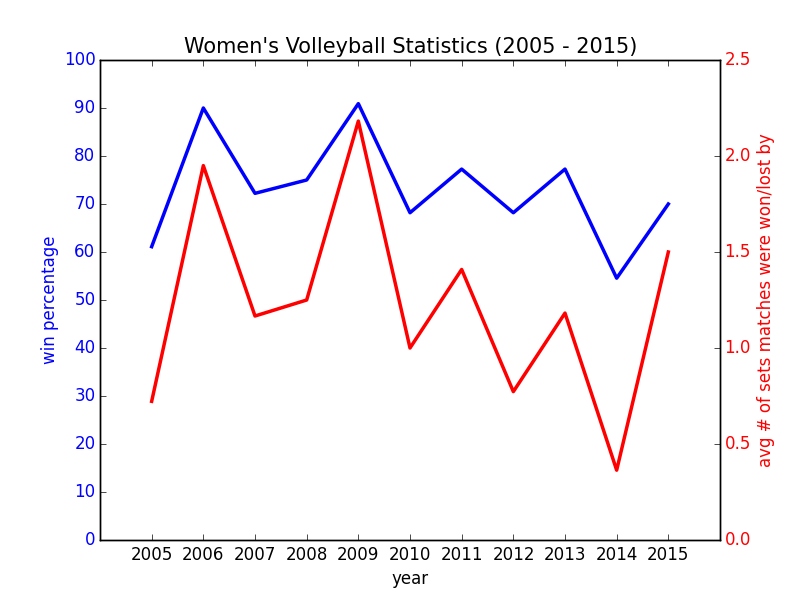
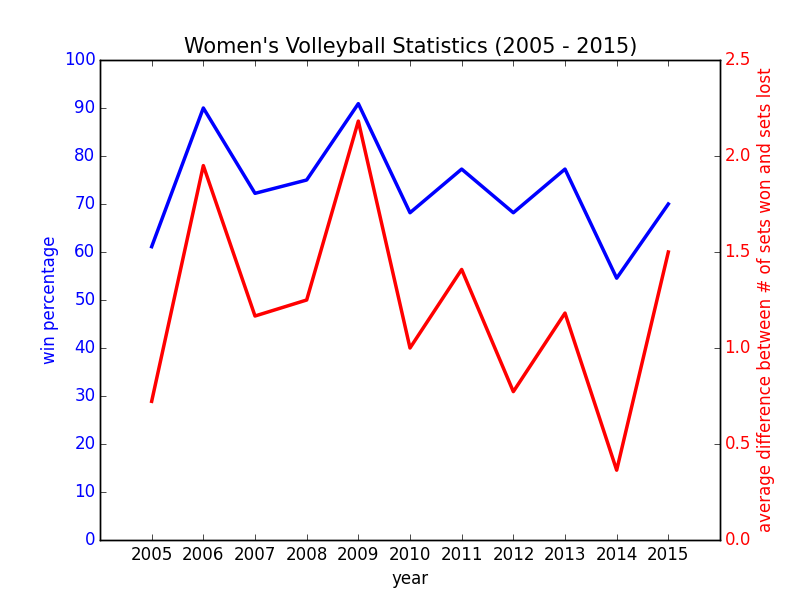
volleyball final?

Changed region(s): [[0.9375, 0.12, 0.9688, 0.9]]

diff --git a/volleyball_w/script.py b/volleyball_w/script.py
@@ -63,7 +63,7 @@ ax2 = ax1.twinx()
 s2 = summary['Set Diff Avg'].values
 
 ax2.plot(t, s2, 'r-',linewidth=2.5)
-ax2.set_ylabel('avg # of sets matches were won/lost by', color='r')
+ax2.set_ylabel('average difference between # of sets won and sets lost', color='r')
 for tl in ax2.get_yticklabels():
     tl.set_color('r')
 
